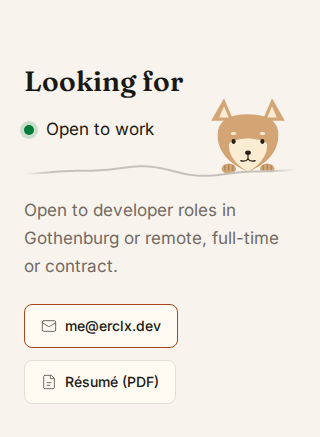
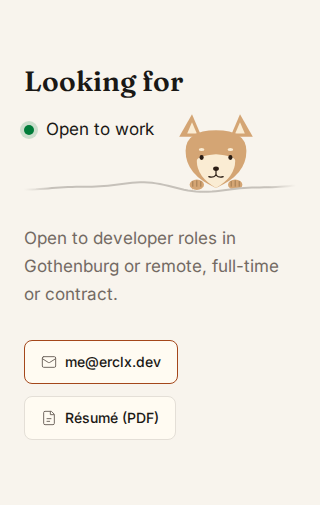
feat(looking-for): give the section more room and move the dog in (#165)
## Summary

Loosen the Looking for section's vertical rhythm by one step at each gap and move the dog's window inward from the rule's end to sit the dog on full ink rather than on the fade.

## Key changes

**Looking for section**

- Raise the section close to `pb-16` and `md:pb-20` in `src/components/site/looking-for/looking-for.astro`, keeping `pt-16 md:pt-20` as the 160px heading interval.
- Raise the status to rule gap to `mt-11`, the rule to sentence gap to `pt-9`, and the sentence to buttons gap to `mt-8`.
- Move the dog's window to `right-16` from 360px and `md:right-32` from `md`, with `right-8` below 360px.
- Rewrite the opening comment's account of the close, which argued for `pb-8` and no longer describes the section.

**Context and evidence**

- Record the dog's inset steps in `canon/context/sections/cast.md`.
- Regenerate `.github/evidence/surfaces/home/looking-for/1280--default.png` and `.github/evidence/surfaces/home/looking-for/320--default.png`.

## Technical context

**Inset below 360px.** The plan set the window at 4rem below `md`. At 320 wide that put the dog's ear and head over the Open to work label, which the plan's review focus names as a failure, so it holds 2rem below 360px and takes 4rem from there. He reads closer to the line's end on the narrowest phones.

**Perch.** Moving inward means the rule runs on past him, so he reads less as perched on the very edge of the line.

diff --git a/canon/context/sections/cast.md b/canon/context/sections/cast.md
@@ -16,6 +16,7 @@ Owns the dog on the looking-for rule. It is drawn as inline SVG on its own and i
 Holds the closing ask and the dog on its rule. The rule is a curved contour at the hero field's peak weight, summing three sines so it reads as part of the surface behind it.
 
 - The dog is clipped by a polygon built from the curve's own path, since a rectangular clip drops its grip where the curve leaves the midline
+- The window sits 2rem in from the rule's end below 360px, 4rem to 768px, and 8rem after, so he stands on full ink, and a deeper inset below 360px puts his ear over the Open to work label
 - The amplitude ramps from 5px to 16px across a 342px to 768px stage, since a fixed one tips the dog at 390
 - The fill reads `--figure-fill`, `#d4a574` in both themes, the token the about aircraft and racket read, with `#2a1d14` for the eye
 
